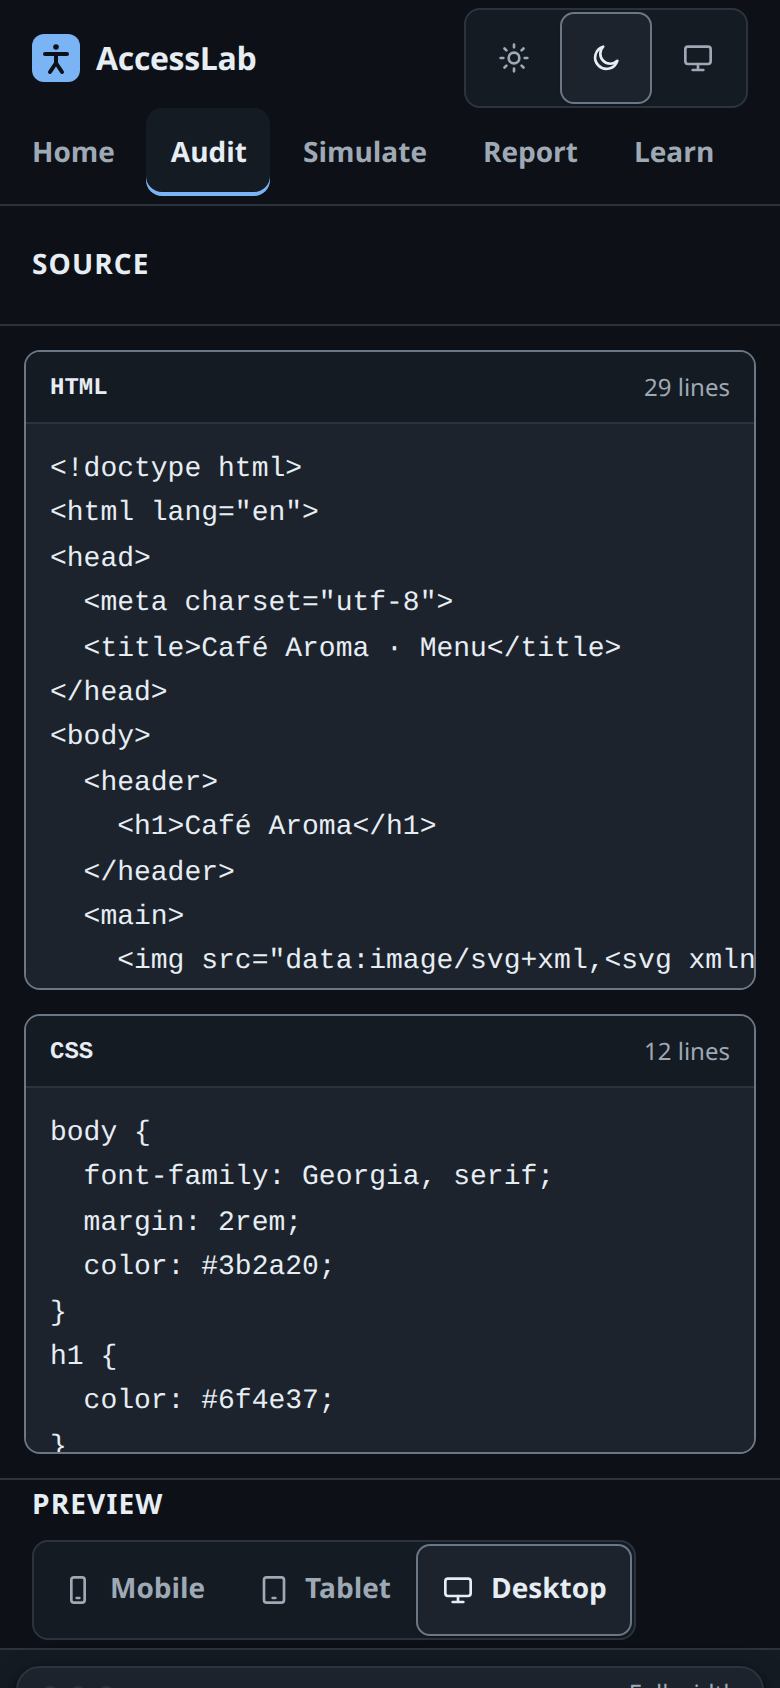
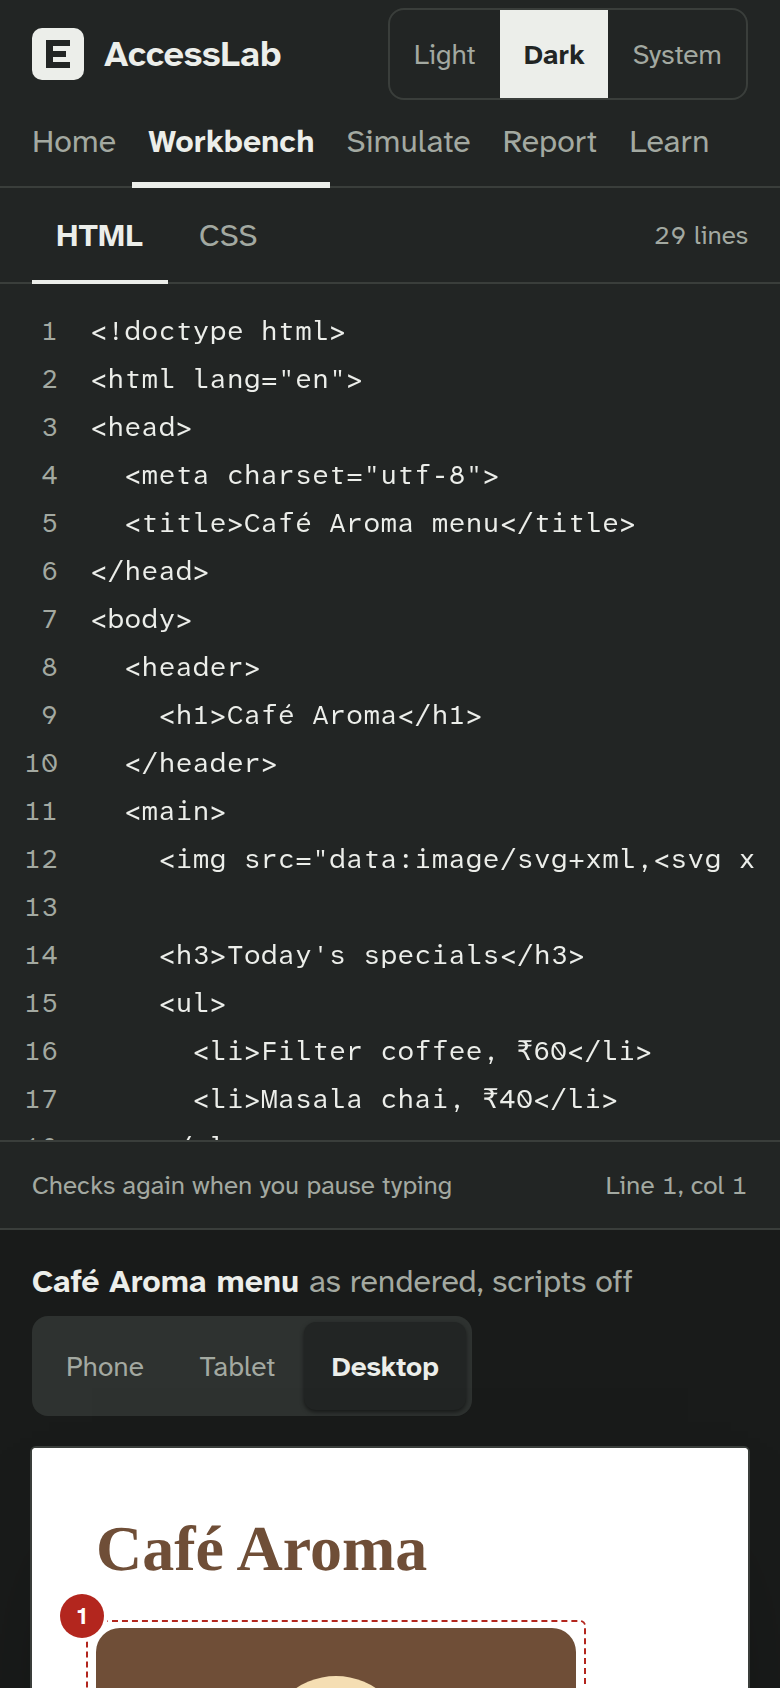
docs: retake screenshots and add mockup comparisons
Retake all twelve screenshots (light, dark and phone) in the new design, add
side-by-side comparisons with the mockup in docs/design/fidelity/, and update
the README. The editor footer now shows the caret position from the start.

diff --git a/src/features/audit/ScoreReading.jsx b/src/features/audit/ScoreReading.jsx
@@ -6,6 +6,9 @@ import { acuityFor, snellenLineFor, SNELLEN_LINES, inTheWay, describeDelta } fro
 /**
  * A decorative Snellen chart with the line the score reaches underlined and
  * labelled. Hidden from screen readers: the "Reads at 20/30" sentence says it.
+ * The letters are drawn by CSS (content: attr(data-letters)), not as text:
+ * the rows below the reached line are deliberately faint, which is fine for
+ * decoration, but as real text they would fail a contrast check.
  */
 function Snellen({ line }) {
   return (
@@ -18,9 +21,8 @@ function Snellen({ line }) {
           }
           style={{ fontSize: l.size }}
           data-acuity={i === line ? l.acuity : undefined}
-        >
-          {l.letters}
-        </span>
+          data-letters={l.letters}
+        />
       ))}
     </div>
   );

diff --git a/src/features/audit/workbench.css b/src/features/audit/workbench.css
@@ -369,22 +369,23 @@
   position: relative;
   display: block;
 }
+.snellen span::before {
+  content: attr(data-letters);
+}
 .snellen .is-dim {
   color: var(--faint);
 }
-.snellen .is-here::before {
-  content: '';
-  position: absolute;
-  left: -10px;
-  right: -10px;
-  bottom: -3px;
+/* The reached line: underlined 10px past its letters (::before holds the letters). */
+.snellen .is-here {
+  margin: 0 -10px -3px;
+  padding: 0 10px 1px;
   border-bottom: 2px solid var(--lens);
 }
 .snellen .is-here::after {
   content: attr(data-acuity);
   position: absolute;
   top: 50%;
-  left: calc(100% + 8px);
+  left: calc(100% - 2px);
   transform: translateY(-50%);
   font-size: 11px;
   letter-spacing: 0;

diff --git a/tests/components/ScoreReading.test.jsx b/tests/components/ScoreReading.test.jsx
@@ -31,7 +31,8 @@ describe('ScoreReading', () => {
     const chart = container.querySelector('.snellen');
     expect(chart.getAttribute('aria-hidden')).toBe('true');
     const here = chart.querySelector('.is-here');
-    expect(here.textContent).toBe('E D F C Z P');
+    expect(here.dataset.letters).toBe('E D F C Z P');
+    expect(chart.textContent).toBe(''); // letters are drawn by CSS, so they are not text
     expect(here.dataset.acuity).toBe('20/30');
     expect(chart.querySelectorAll('.is-dim')).toHaveLength(2); // 20/25 and 20/20
   });

diff --git a/src/styles/global.css b/src/styles/global.css
@@ -195,7 +195,7 @@ input[type='checkbox'] {
   align-items: center;
   justify-content: center;
   gap: var(--space-2);
-  min-height: calc(var(--target) - 6px); /* plus the 3px track = 44px */
+  min-height: var(--target);
   padding: 0 14px;
   font-size: var(--text-sm);
   color: var(--graphite);
@@ -225,7 +225,7 @@ input[type='checkbox'] {
   border: 1px solid var(--rule);
 }
 .segmented--ink .segmented__face {
-  min-height: calc(var(--target) - 2px);
+  min-height: var(--target);
   padding: 0 var(--space-3);
   border-radius: 0;
 }

diff --git a/src/features/editor/SourceEditor.jsx b/src/features/editor/SourceEditor.jsx
@@ -231,9 +231,7 @@ export default function SourceEditor({
       />
       <div className="src-foot">
         <span>Checks again when you pause typing</span>
-        <span>
-          {pos ? `Line ${pos.line}, col ${pos.column}` : `${active.toUpperCase()} source`}
-        </span>
+        <span>{`Line ${pos?.line ?? 1}, col ${pos?.column ?? 1}`}</span>
       </div>
     </>
   );

diff --git a/README.md b/README.md
@@ -11,19 +11,27 @@ app with Redux Toolkit and React Router.
 
 ## Features
 
-- **Live audit.** HTML and CSS editors feed a sandboxed preview; 400 ms after you stop typing
-  the page is re-rendered and re-audited.
+- **Live audit.** An HTML/CSS editor (tabs, line numbers, caret position) feeds a sandboxed
+  preview; 400 ms after you stop typing the page is re-rendered and checked again.
+- **Findings people can read.** Each finding has a plain title and says who it affects
+  ("Screen reader users hear "image" and nothing else."), with the element, the rule, a link to
+  the WCAG criterion and the fix. The score is also read as eye-chart acuity: 77 "reads at
+  20/30".
 - **Eleven core rules** in two switchable packs (see the catalogue below), each linked to its
   WCAG 2.2 success criterion.
 - **Colour contrast with fixes.** Real WCAG relative-luminance maths, background resolution
   through translucent layers, and the nearest passing colour (same hue) as a one-click CSS fix.
-- **Issue overlays.** Every issue is outlined on the preview, labelled by severity. Select an
-  issue to scroll to it, or click an element in the preview to find its issue.
+- **Numbered marks.** Every finding is outlined on the preview with a numbered pin that matches
+  its number in the list. Opening a finding scrolls the preview to it and highlights its source
+  line in yellow; clicking an element in the preview opens its finding.
 - **Score and history.** A weighted 0–100 score, the change since the last run, and a report
   page comparing any two of the last 20 runs.
-- **Built to its own standard.** Light, dark and system themes; every text colour passes WCAG
-  AA in both (checked by a test with the engine's own contrast maths); 44 px touch targets;
-  keyboard-resizable panes; and AccessLab scores 100 when its own engine audits its pages.
+- **Built to its own standard.** Set in Atkinson Hyperlegible (self-hosted); light, dark and
+  system themes; every text colour passes WCAG AA in both (checked by a test with the engine's
+  own contrast maths); 44 px touch targets; keyboard-resizable panes; and AccessLab scores 100
+  when its own engine audits its pages. The visual spec is
+  [`docs/design/direction.html`](docs/design/direction.html), with side-by-side fidelity
+  checks in [`docs/design/fidelity/`](docs/design/fidelity/).
 - **Safe by design.** The audited page runs in an `<iframe sandbox="allow-same-origin">`: its
   own JavaScript never runs, and links or forms inside it cannot navigate the frame.
 
@@ -44,7 +52,7 @@ Requires Node.js 22.
 
 ```bash
 npm install
-npm run dev        # http://localhost:5173, then open "Audit"
+npm run dev        # http://localhost:5173, then open "Workbench"
 ```
 
 | Script             | What it does                                    |
@@ -63,7 +71,7 @@ src/
   engine/      plain JavaScript, no React: rules, registry, scheduler, contrast, DOM helpers
   features/    one folder per feature: editor, audit (workbench), report, ...
   app/         store, router, layout
-  components/  shared UI (header, footer, score badge)
+  components/  shared UI (header, footer, segmented control, severity shapes)
   context/     SettingsContext: theme, motion, enabled rule packs
   services/    guarded localStorage access
 tests/         Vitest + jsdom: engine fixtures, reducers, components
@@ -79,19 +87,19 @@ tests/         Vitest + jsdom: engine fixtures, reducers, components
 
 ## Rule catalogue
 
-| Rule                | Checks                                                  | WCAG 2.2                 | Severity | Pack           |
-| ------------------- | ------------------------------------------------------- | ------------------------ | -------- | -------------- |
-| `img-alt`           | `<img>` without an `alt` attribute                      | 1.1.1 Non-text Content   | Critical | WCAG 2.2 A/AA  |
-| `form-label`        | Field with no label, or named only by placeholder/title | 1.3.1, 4.1.2             | Critical | WCAG 2.2 A/AA  |
-| `button-name`       | Button with no accessible name                          | 4.1.2 Name, Role, Value  | Critical | WCAG 2.2 A/AA  |
-| `link-name`         | Link with no accessible name (e.g. an icon-only link)   | 2.4.4 Link Purpose       | Serious  | WCAG 2.2 A/AA  |
-| `color-contrast`    | Text below 4.5:1, or below 3:1 for large text           | 1.4.3 Contrast (Minimum) | Serious  | WCAG 2.2 A/AA  |
-| `html-lang`         | `<html>` without `lang` (full pages only)               | 3.1.1 Language of Page   | Serious  | WCAG 2.2 A/AA  |
-| `page-title`        | Missing or empty `<title>` (full pages only)            | 2.4.2 Page Titled        | Serious  | WCAG 2.2 A/AA  |
-| `heading-order`     | Heading level skipped, e.g. h1 → h3                     | 1.3.1 (best practice)    | Moderate | Best practices |
-| `tabindex-positive` | `tabindex` greater than 0                               | 2.4.3 (best practice)    | Moderate | Best practices |
-| `duplicate-id`      | Repeated `id` values                                    | Best practice            | Moderate | Best practices |
-| `landmark-main`     | No single `<main>` landmark (full pages only)           | Best practice (2.4.1)    | Minor    | Best practices |
+| Rule                | Checks                                                  | WCAG 2.2                 | Severity | Pack          |
+| ------------------- | ------------------------------------------------------- | ------------------------ | -------- | ------------- |
+| `img-alt`           | `<img>` without an `alt` attribute                      | 1.1.1 Non-text Content   | Critical | WCAG 2.2 A/AA |
+| `form-label`        | Field with no label, or named only by placeholder/title | 1.3.1, 4.1.2             | Critical | WCAG 2.2 A/AA |
+| `button-name`       | Button with no accessible name                          | 4.1.2 Name, Role, Value  | Critical | WCAG 2.2 A/AA |
+| `link-name`         | Link with no accessible name (e.g. an icon-only link)   | 2.4.4 Link Purpose       | Serious  | WCAG 2.2 A/AA |
+| `color-contrast`    | Text below 4.5:1, or below 3:1 for large text           | 1.4.3 Contrast (Minimum) | Serious  | WCAG 2.2 A/AA |
+| `html-lang`         | `<html>` without `lang` (full pages only)               | 3.1.1 Language of Page   | Serious  | WCAG 2.2 A/AA |
+| `page-title`        | Missing or empty `<title>` (full pages only)            | 2.4.2 Page Titled        | Serious  | WCAG 2.2 A/AA |
+| `heading-order`     | Heading level skipped, e.g. h1 → h3                     | 1.3.1 (best practice)    | Moderate | Best practice |
+| `tabindex-positive` | `tabindex` greater than 0                               | 2.4.3 (best practice)    | Moderate | Best practice |
+| `duplicate-id`      | Repeated `id` values                                    | Best practice            | Moderate | Best practice |
+| `landmark-main`     | No single `<main>` landmark (full pages only)           | Best practice (2.4.1)    | Minor    | Best practice |
 
 **Scoring.** Each rule owns a share of the score in proportion to its severity weight
 (critical 10, serious 6, moderate 3, minor 1). A rule with _n_ issues loses 1 − 0.5ⁿ of its
